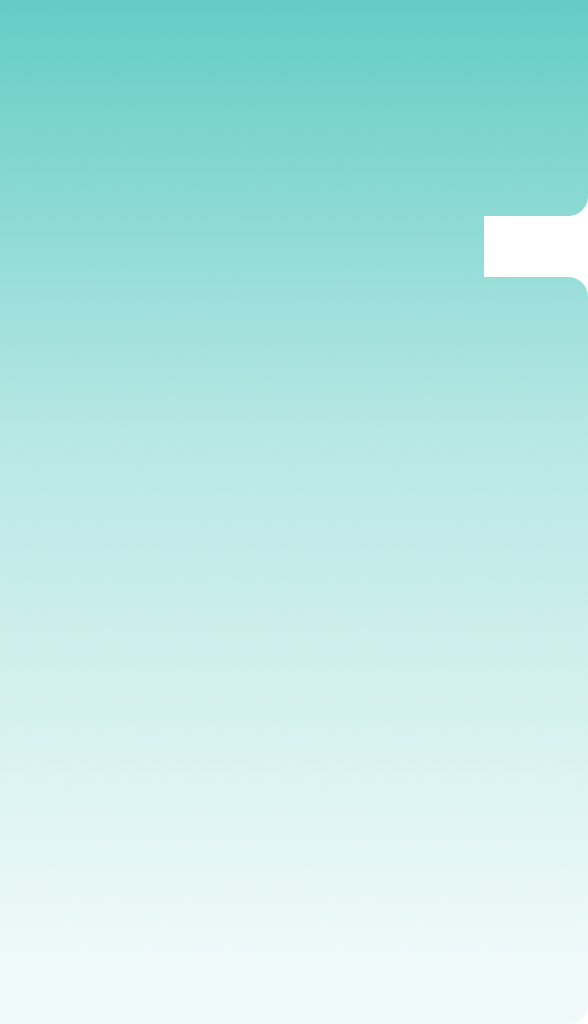
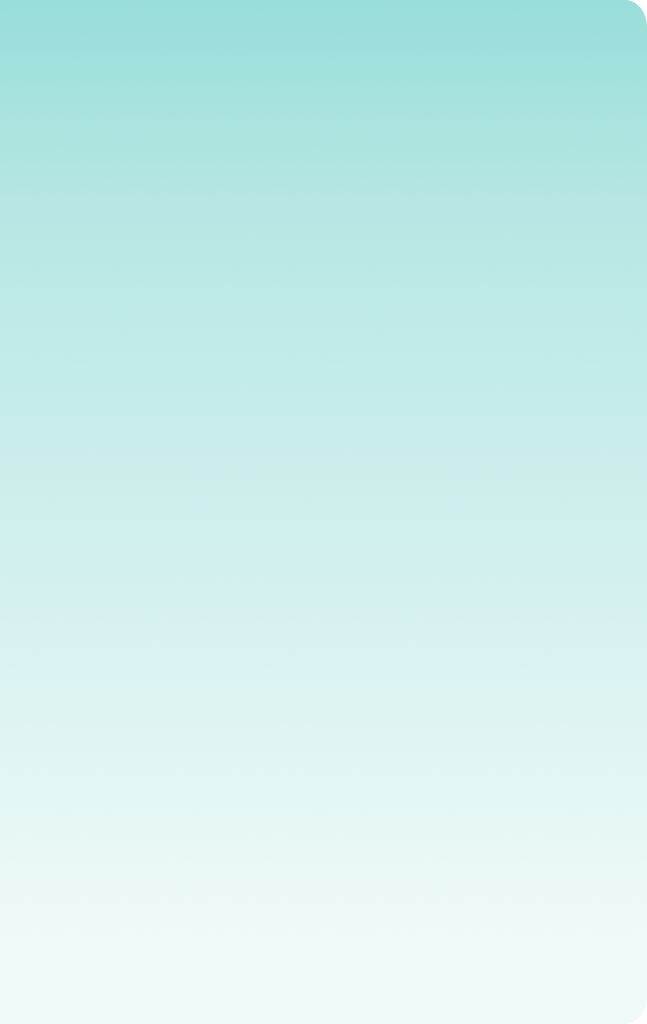
first commit

diff --git a/login.html b/login.html
@@ -22,58 +22,51 @@
     <!--  -->
   <section class="row align-items-center h-100">
    <div class="col-lg-8 h-100 d-flex align-items-center justify-content-center position-relative">
-    <!-- menu -->
-    <div class="pe-3 mt-5 position-absolute d-lg-none left-30 top-204">
-      <svg xmlns="http://www.w3.org/2000/svg" width="114" height="87" viewBox="0 0 114 87" fill="none">
-        <path d="M8.34917e-09 0C8.34917e-09 0 0.535211 4.55038 6.42253 9.55567C12.3099 14.561 19.2676 14.561 19.2676 14.561H94C105.046 14.561 114 23.5153 114 34.561V51.8943C114 62.94 105.046 71.8943 94 71.8943H19.2676C19.2676 71.8943 14.4507 71.8943 9.6338 74.6243C1.60529 79.1746 -0.000133686 88 8.34917e-09 86C0.000133703 84 8.34917e-09 0 8.34917e-09 0Z" fill="#64CCC5"/>
+     <form class="max-w-500 px-5 pt-4 pb-5 shadow rounded-20 bg-white border-b-info">
+      <div class="d-flex align-items-center justify-content-between">
+        <a class="d-flex align-items-center fs-20 fw-bold justify-content-center w-70 h-46">
+          <img alt="logo" src="assets/img/logo.png" class="img-fluid d-block w-122">
+        </a>
+        <div class="fw-bold">
+          <a class="main-text text-center mb-2 d-block">ورود | ثبت نام</a>
+          <svg xmlns="http://www.w3.org/2000/svg" width="115" height="7" viewBox="0 0 115 7" fill="none">
+            <rect x="55.8208" y="0.244141" width="59.0512" height="6.15116" rx="3.07558" fill="url(#paint0_linear_271_4065)"/>
+            <rect x="21.3745" y="0.244141" width="24.6047" height="6.15116" rx="3.07558" fill="url(#paint1_linear_271_4065)"/>
+            <rect x="0.460449" y="0.244141" width="12.3023" height="6.15116" rx="3.07558" fill="url(#paint2_linear_271_4065)"/>
+            <defs>
+            <linearGradient id="paint0_linear_271_4065" x1="55.8208" y1="5.6726" x2="64.6126" y2="-18.2369" gradientUnits="userSpaceOnUse">
+            <stop stop-color="#053B50"/>
+            <stop offset="1" stop-color="#68C6C2"/>
+            </linearGradient>
+            <linearGradient id="paint1_linear_271_4065" x1="21.3745" y1="5.6726" x2="34.8404" y2="-9.58597" gradientUnits="userSpaceOnUse">
+            <stop stop-color="#053B50"/>
+            <stop offset="1" stop-color="#68C6C2"/>
+            </linearGradient>
+            <linearGradient id="paint2_linear_271_4065" x1="0.460449" y1="5.6726" x2="12.1016" y2="-0.922868" gradientUnits="userSpaceOnUse">
+            <stop stop-color="#053B50"/>
+            <stop offset="1" stop-color="#68C6C2"/>
+            </linearGradient>
+            </defs>
+          </svg>
+        </div>
+      </div>
+      <p class="text-secondary fs-12 fw-bold mt-5 pt-4">
+        سلام!<br> لطفا شماره موبایل خود را وارد کنید.
+      </p>
+      <div class="d-flex align-items-center gap-2 mt-4 border-b-main">
+        <svg xmlns="http://www.w3.org/2000/svg" width="31" height="31" viewBox="0 0 31 31" fill="none">
+          <path d="M18.2374 14.5211L20.8855 17.1692C21.2416 17.5253 21.2416 18.1026 20.8855 18.4587C18.9603 20.384 15.9124 20.6006 13.7343 18.967L12.1588 17.7854C10.4153 16.4777 8.86649 14.9289 7.55884 13.1854L6.37728 11.61C4.74368 9.43184 4.96029 6.38395 6.8855 4.45873C7.2416 4.10264 7.81895 4.10264 8.17504 4.45873L10.8232 7.10686C11.2137 7.49738 11.2137 8.13055 10.8232 8.52107L9.80202 9.54222C9.63973 9.7045 9.5995 9.95242 9.70214 10.1577C10.8888 12.531 12.8132 14.4554 15.1865 15.6421C15.3918 15.7447 15.6397 15.7045 15.802 15.5422L16.8232 14.5211C17.2137 14.1305 17.8469 14.1305 18.2374 14.5211Z" stroke="#747474" stroke-width="2"/>
         </svg>
-      <ul class="list-unstyled pe-4 mb-0 mt-54">
-        <li><a class="d-block text-white h5 fw-bold mb-4">ورود</a></li>
-        <li><a class="d-block main-text h5 fw-bold mb-0">ثبت نام</a></li>
-      </ul>
-    </div>
-    <!--  -->
-     <form class="max-w-770 px-5">
-      <img alt="login" src="assets/img/Computer login-bro 1.png" class="img-fluid mx-auto d-block d-lg-none w-167 mb-3">
-      <a class="d-flex align-items-center fs-20 fw-bold justify-content-center w-70 mx-auto h-46">
-        <img alt="logo" src="assets/img/logo.png" class="img-fluid d-block w-122">
-      </a>
-      <h2 class="text-center font-bold display-6 main-text mt-2 d-none d-lg-block">ورود</h2>
-      <div class="d-flex align-items-center gap-2 border-bottom mt-5 pt-5 pt-lg-0">
-        <svg xmlns="http://www.w3.org/2000/svg" width="24" height="24" viewBox="0 0 24 24" fill="none">
-          <path d="M19.7274 20.4471C19.2716 19.1713 18.2672 18.0439 16.8701 17.2399C15.4729 16.4358 13.7611 16 12 16C10.2389 16 8.52706 16.4358 7.12991 17.2399C5.73276 18.0439 4.72839 19.1713 4.27259 20.4471" stroke="#747474" stroke-width="2" stroke-linecap="round"/>
-          <circle cx="12" cy="8" r="4" stroke="#747474" stroke-width="2" stroke-linecap="round"/>
-          </svg>
-          <input placeholder="نام کاربری" class="fs-20 bg-transparent outline-none border-0 py-3 w-100">
+          <input type="tel" placeholder="شماره موبایل" class="bg-transparent outline-none border-0 text-end py-3 w-100">
       </div>
-      <div class="d-flex align-items-center gap-2 border-bottom mt-3">
-        <svg xmlns="http://www.w3.org/2000/svg" width="24" height="24" viewBox="0 0 24 24" fill="none">
-          <path d="M4 13C4 11.1144 4 10.1716 4.58579 9.58579C5.17157 9 6.11438 9 8 9H16C17.8856 9 18.8284 9 19.4142 9.58579C20 10.1716 20 11.1144 20 13V15C20 17.8284 20 19.2426 19.1213 20.1213C18.2426 21 16.8284 21 14 21H10C7.17157 21 5.75736 21 4.87868 20.1213C4 19.2426 4 17.8284 4 15V13Z" stroke="#747474" stroke-width="2"/>
-          <path d="M16 8V7C16 4.79086 14.2091 3 12 3V3C9.79086 3 8 4.79086 8 7V8" stroke="#747474" stroke-width="2" stroke-linecap="round"/>
-          <circle cx="12" cy="15" r="2" fill="#747474"/>
-          </svg>
-          <input placeholder="رمز عبور" class="fs-20 bg-transparent outline-none border-0 py-3 w-100">
-      </div>
-      <input type="submit" class="rounded-pill py-3 px-4 w-100 text-white fw-bold cursor-pointer social-bg border-0 mt-5" value="ورود">
-      <div class="d-flex flex-wrap gap-3 align-items-center justify-content-between mt-3">
-       <label class="cursor-pointer text-secondary fw-bold">
-        <input type="checkbox" class="form-check-input bg-gray">
-        مرا به خاطر بسپار
-       </label>
-       <a class="text-secondary fw-bold cursor-pointer">فراموشی رمز عبور؟</a>
-      </div>
+      <p class="mb-2 fs-12 main-text fw-bold mt-4">لطفا این قسمت را خالی نگذارید</p>
+      <input type="submit" class="rounded-pill py-3 px-4 w-100 text-white fw-bold cursor-pointer second-bg fs-20 border-0 mt-4" value="ثبت نام">
+      <p class="fs-12 fw-bold text-secondary mt-3">ورود شما به معنای پذیرش شرایط و قوانین حریمخصوصی است.</p>
      </form>
    </div>
    <div class="col-lg-4 bg-login d-lg-block d-none h-100 position-relative">
     <img src="assets/img/loginbg.png" class="position-absolute end-0 start-0 bottom-0 top-0 w-100 h-100">
      <div class="d-flex flex-column h-100 justify-content-center z-10 position-relative">
-      <svg class="position-absolute top-156 h-44 right-3" xmlns="http://www.w3.org/2000/svg" width="158" height="61" viewBox="0 0 158 61" fill="none">
-        <path d="M0 25C0 11.1929 11.1929 0 25 0H158V61H25C11.1929 61 0 49.8071 0 36V25Z" fill="#FBF9F9"/>
-        </svg>
-      <ul class="list-unstyled p-0 mb-0 pe-3 mt-5 position-absolute end-0 start-0 top-117">
-        <li><a class="d-block main-text h5 fw-bold mb-4">ورود</a></li>
-        <li><a class="d-block text-white h5 fw-bold mb-0">ثبت نام</a></li>
-      </ul>
       <img alt="login" src="assets/img/Computer login-bro 1.png" class="img-fluid d-block mx-auto w-75 mt-5 pt-5">
      </div>
    </div>

diff --git a/assets/css/styles.css b/assets/css/styles.css
@@ -322,8 +322,8 @@ a {
     width: 100%;
 }
 
-.max-w-770 {
-    max-width: 770px;
+.max-w-500 {
+    max-width: 500px;
     width: 100%;
 }
 
